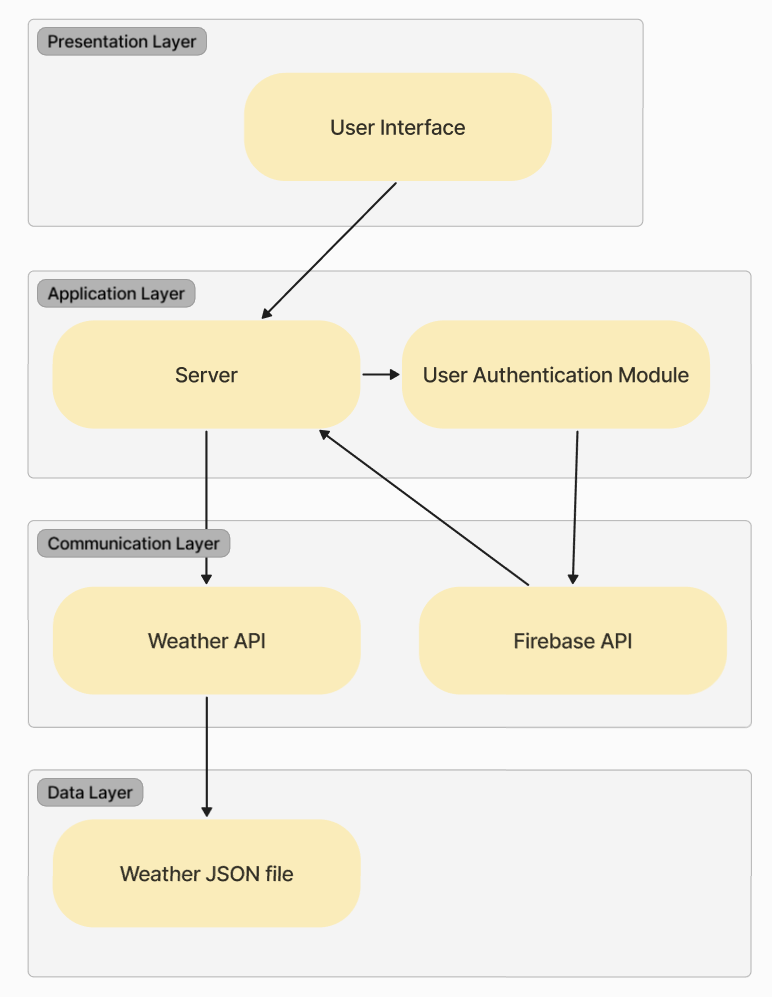
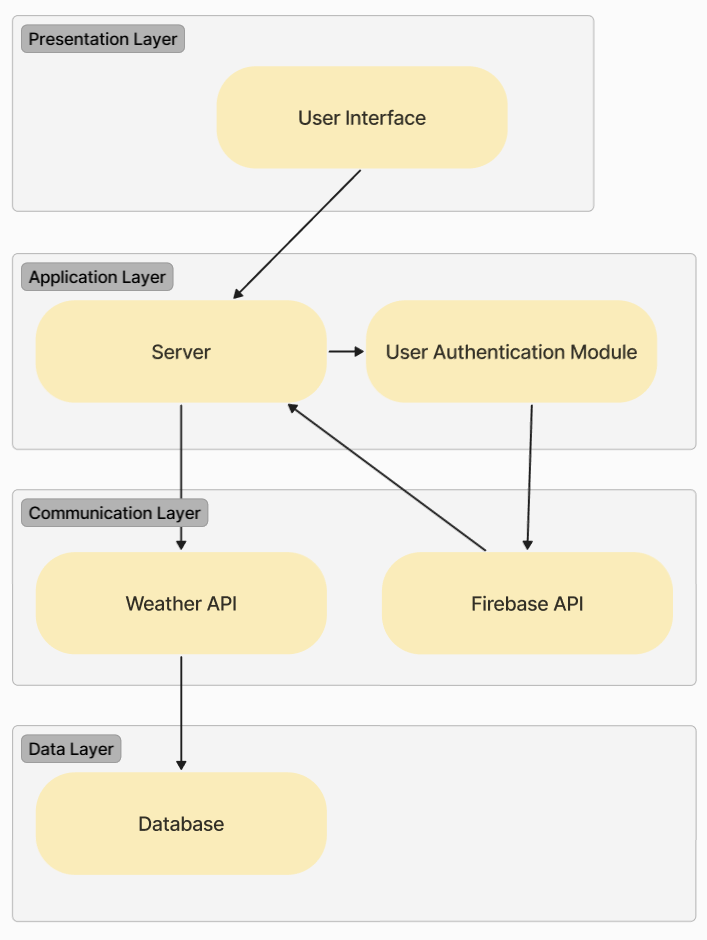
Updated architecture diagram to replace JSON file with database

diff --git a/Models-TestPlan/README.md b/Models-TestPlan/README.md
@@ -28,7 +28,7 @@ Communication Layer (Handles external communication):
 
 Data Layer: Handles data storage 
 
-    Weather JSON File: Weather data is stored in a JSON file upon saving or sharing the weather.
+    Database: Weather data is stored in a database upon saving or sharing the weather.
 
 ---
 
